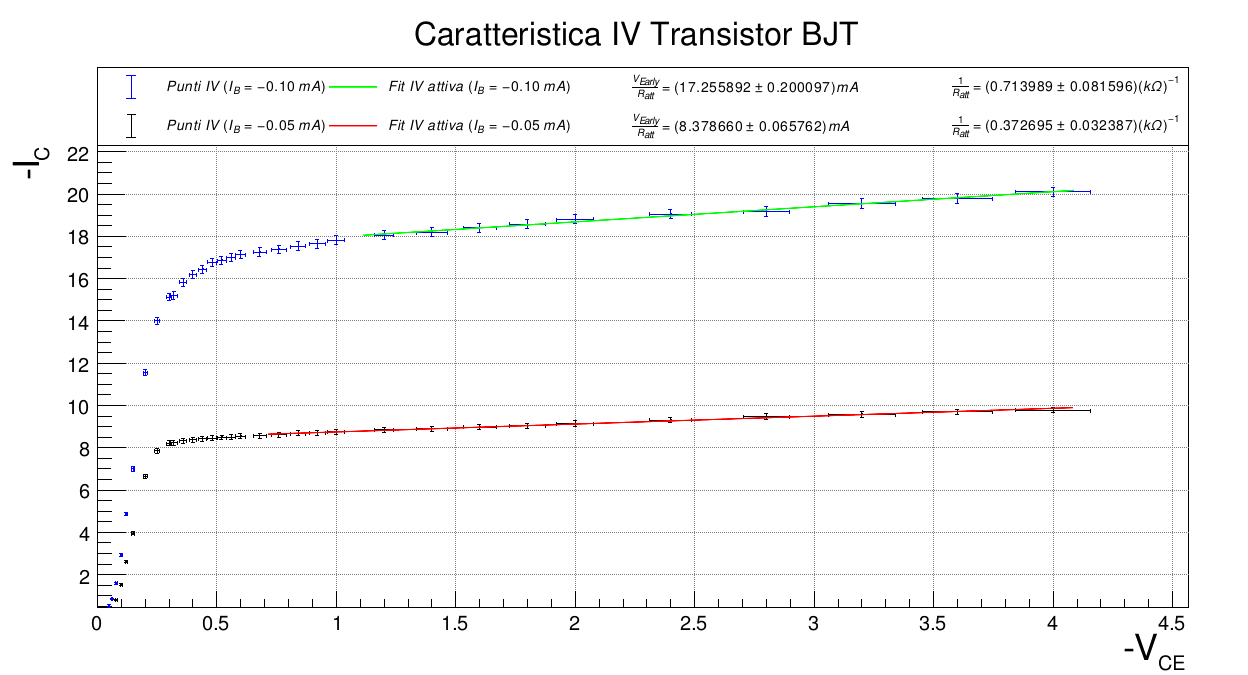
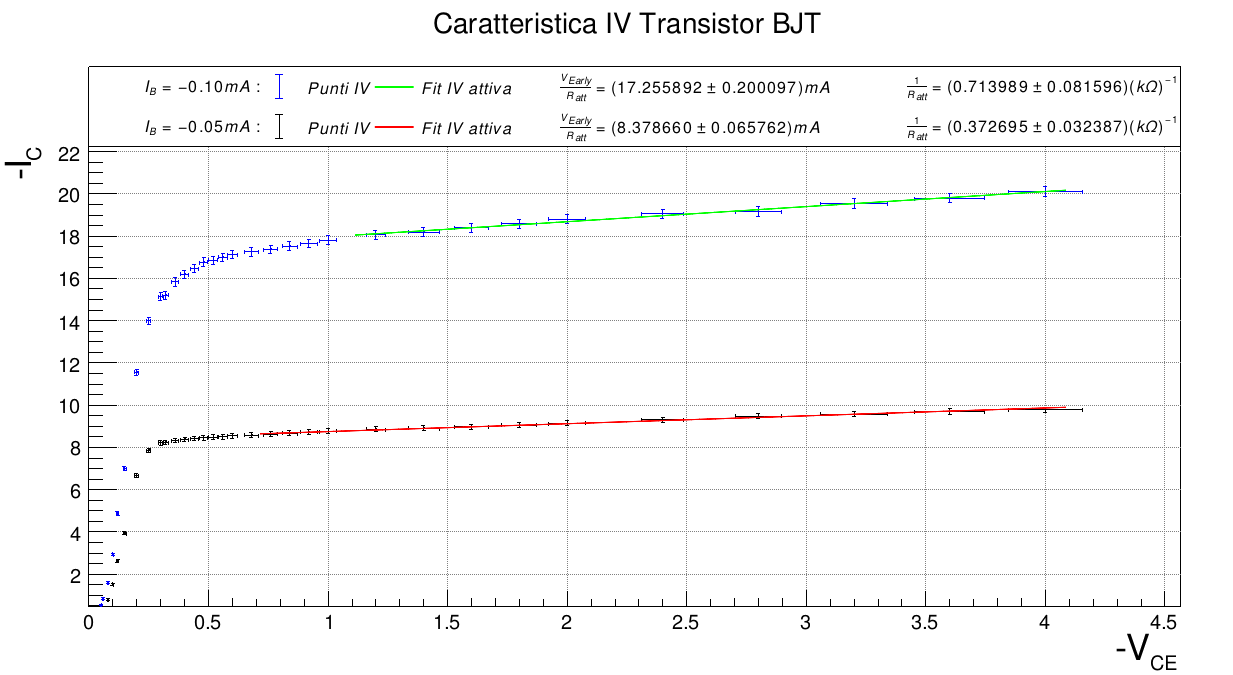
;

diff --git a/fit_maneskin.cpp b/fit_maneskin.cpp
@@ -7,6 +7,7 @@
 #include "TMath.h"
 #include "TText.h"
 #include "TPaveText.h"
+#include "TArray.h"
 void fit_maneskin()
 {
     gStyle->SetCanvasPreferGL();
@@ -186,21 +187,73 @@ void fit_maneskin()
     fit_IV_50uA->Draw("SAME");
 
     TLegend *legend_IV{new TLegend(0.1, 0.9, 0.9, 0.785)};
-    legend_IV->SetNColumns(4);
-    legend_IV->AddEntry(graph_IV_100uA, "Punti \\; IV \\; (I_{B}=-0.10\\,mA)", "ep");
-    legend_IV->AddEntry(fit_IV_100uA, "Fit \\; IV \\; attiva \\; (I_{B}=-0.10\\,mA)", "l");
+    legend_IV->SetNColumns(5);
+    legend_IV->AddEntry((TObject*)0, "I_{B} = -0.10mA:\\quad", "");
+    legend_IV->AddEntry(graph_IV_100uA, "Punti \\; IV", "ep");
+    legend_IV->AddEntry(fit_IV_100uA, "Fit \\; IV \\; attiva", "l");
     legend_IV->AddEntry((TObject *)0, (std::string(fit_IV_100uA->GetParName(0)) + " = (" + std::to_string(fit_IV_100uA->GetParameter(0)) + " \\pm " + std::to_string(fit_IV_100uA->GetParError(0)) + ") mA").c_str(), "");
     legend_IV->AddEntry((TObject *)0, (std::string(fit_IV_100uA->GetParName(1)) + " = (" + std::to_string(fit_IV_100uA->GetParameter(1)) + " \\pm " + std::to_string(fit_IV_100uA->GetParError(1)) + ") (k \\Omega)^{-1}").c_str(), "");
 
-    legend_IV->AddEntry(graph_IV_50uA, "Punti \\; IV \\; (I_{B}=-0.05\\,mA)", "ep");
-    legend_IV->AddEntry(fit_IV_50uA, "Fit \\; IV \\; attiva \\; (I_{B}=-0.05\\,mA)", "l");
+    legend_IV->AddEntry((TObject*)0, "I_{B} = -0.05mA:\\quad", "");
+    legend_IV->AddEntry(graph_IV_50uA, "Punti \\; IV", "ep");
+    legend_IV->AddEntry(fit_IV_50uA, "Fit \\; IV \\; attiva", "l");
     legend_IV->AddEntry((TObject *)0, (std::string(fit_IV_50uA->GetParName(0)) + " = (" + std::to_string(fit_IV_50uA->GetParameter(0)) + " \\pm " + std::to_string(fit_IV_50uA->GetParError(0)) + ") mA").c_str(), "");
     legend_IV->AddEntry((TObject *)0, (std::string(fit_IV_50uA->GetParName(1)) + " = (" + std::to_string(fit_IV_50uA->GetParameter(1)) + " \\pm " + std::to_string(fit_IV_50uA->GetParError(1)) + ") (k \\Omega)^{-1}").c_str(), "");
 
     legend_IV->Draw();
 
+    int end_index_beta = 0;
+    for (int i = 0; i !=N_POINTS_100uA; ++i)
+    {
+        if(V_100uA[i]<1.1)
+        {
+            end_index_beta = i;
+            break;
+        }
+    }
 
-//     //per fare il titolo grande
+    Int_t N_beta = end_index_beta-1; //N_BETA = 9
+    Double_t beta      [9];
+    Double_t err_beta  [9];
+    Double_t V_beta    [9];
+    Double_t err_V_beta[9];
+
+
+    Double_t I_B_100 = 0.1;
+    Double_t err_I_B_100 = 0.03;
+    Double_t I_B_50 = 0.05;
+    Double_t err_I_B_50 = 0.03;
+
+    
+    Double_t err_I_B_combinato = (1/(I_B_100 - I_B_50)) * (1/(I_B_100 - I_B_50)) * (err_I_B_100*err_I_B_100 + err_I_B_50*err_I_B_50);
+    for (int i = 0;  i != end_index_beta; ++i)
+    {
+        beta[i] = (I_100uA[i] - I_50uA[i])/(I_B_100-I_B_50);
+        Double_t err_I_C_combinato = (1/(I_100uA[i] - I_50uA[i])) * (1/(I_100uA[i] - I_50uA[i])) * (I_Err_100uA[i]*I_Err_100uA[i] + I_Err_50uA[i]*I_Err_50uA[i]);
+        err_beta [i] = beta[i]*std::sqrt(err_I_C_combinato + err_I_B_combinato);
+        V_beta[i] = V_100uA[i];
+        err_V_beta[i] = V_Err_100uA[i];
+    }
+    
+    TGraphErrors* graph_beta = new TGraphErrors(end_index_beta, V_beta, beta, err_V_beta, err_beta);
+    TCanvas* canvas_beta = new TCanvas("canvas_beta", "canvas_beta", 0,0,800,600);
+    graph_beta->Draw("APE");    
+
+    Double_t beta_average = 0.;
+    Double_t err_beta_average = 0.;
+
+    Double_t weights_sum = 0.;
+    for (int i = 0; i != end_index_beta; ++i)
+    {
+        Double_t weight = 1/(err_beta[i] * err_beta[i]);
+        beta_average += weight * beta[i];
+        weights_sum += weight;
+    }
+    beta_average /= weights_sum;
+    err_beta_average = 1/std::sqrt(weights_sum);
+    std::cout<<"\nBeta = " <<beta_average <<" +- "<<err_beta_average<<"\n\n";
+    
+    //     //per fare il titolo grande
 //     TPaveText *pt = new TPaveText(0.2580645, 0.9244444, 0.7419355, 0.9925926, "blNDC");
 //     pt->SetName("title");
 //     pt->SetBorderSize(0);
